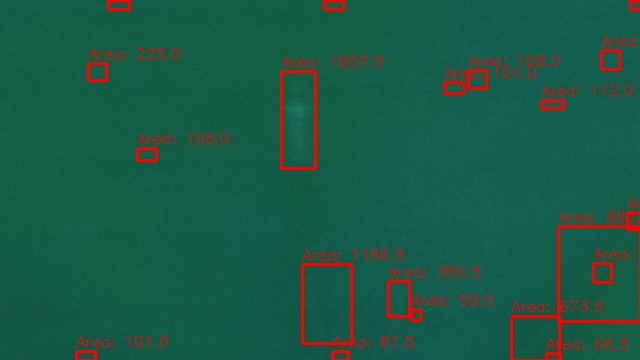
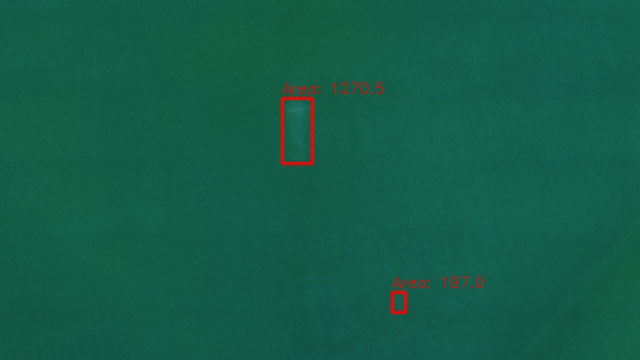
process update

diff --git a/src/preprocess.py b/src/preprocess.py
@@ -1,58 +1,92 @@
 import cv2
-import os
-from config import PROCESSED_DIR
-from io_utils import save_image
 import numpy as np
+import os
 
-def _gamma_correction(img, gamma):
-    invGamma = 1.0 / gamma
-    table = np.array([((i / 255.0) ** invGamma) * 255
-                      for i in np.arange(256)]).astype("uint8")
-    return cv2.LUT(img, table)
+# Thư mục lưu ảnh đã xử lý
+PROCESSED_DIR = "data/processed"
+os.makedirs(PROCESSED_DIR, exist_ok=True)
 
-def preprocess_image(image, filename):
+def preprocess_image_clean(image_input, filename=None,
+                           denoise_strength=25,
+                           median_ksize=7,
+                           gaussian_ksize=7,
+                           nlm_h=15,
+                           min_area=50,
+                           threshold_method="adaptive"):
     """
-    Tiền xử lý ảnh:
-    - Grayscale
-    - CLAHE cực mạnh
-    - Contrast stretching cực đại
-    - Khử nhiễu cực mạnh: bilateral + median + gaussian
-    - Gamma correction để nền tối, defect sáng
-    - Morphological top-hat nhấn defect
+    Tiền xử lý ảnh nâng cao:
+    - Chuyển sang grayscale nếu ảnh màu
+    - Tăng tương phản với CLAHE
+    - Lọc nhiễu mạnh (median + bilateral + Gaussian + Non-local Means)
+    - Threshold sang trắng/đen (binary) với C=0
+    - Morphology loại bỏ các chấm sáng nhỏ
+    - Giữ lại các vùng sáng lớn (>= min_area)
+    - Lưu ảnh đã xử lý vào PROCESSED_DIR
     """
 
-    # 1) Grayscale
-    gray = cv2.cvtColor(image, cv2.COLOR_BGR2GRAY)
+    # 1. Đọc ảnh
+    if isinstance(image_input, str):
+        img = cv2.imread(image_input, cv2.IMREAD_GRAYSCALE)
+    else:
+        if len(image_input.shape) == 3:
+            img = cv2.cvtColor(image_input, cv2.COLOR_BGR2GRAY)
+        else:
+            img = image_input.copy()
 
-    # 2) CLAHE cực mạnh
-    clahe = cv2.createCLAHE(clipLimit=10.0, tileGridSize=(8, 8))
-    enhanced = clahe.apply(gray)
+    if img is None:
+        raise ValueError("Không đọc được ảnh!")
 
-    # 3) Contrast stretching theo percentiles 0.5% - 99.5%
-    p_low, p_high = 0.5, 99.5
-    v_min, v_max = np.percentile(enhanced, (p_low, p_high))
-    stretched = np.clip((enhanced.astype(np.float32) - v_min) * 255.0 / (v_max - v_min), 0, 255).astype(np.uint8)
+    # 2. CLAHE để tăng tương phản
+    clahe = cv2.createCLAHE(clipLimit=5, tileGridSize=(8, 8))
+    contrast = clahe.apply(img)
 
-    # 4) Khử nhiễu cực mạnh
-    denoise = cv2.bilateralFilter(stretched, d=11, sigmaColor=450, sigmaSpace=450)
-    denoise = cv2.medianBlur(denoise, 15)  # loại bỏ mọi nhiễu hạt nhỏ
-    denoise = cv2.GaussianBlur(denoise, (3, 3), 0)  # mượt nền, giữ defect
+    # 3. Lọc nhiễu mạnh
+    denoised = cv2.medianBlur(contrast, median_ksize)
+    denoised = cv2.bilateralFilter(denoised, d=11,
+                                   sigmaColor=denoise_strength,
+                                   sigmaSpace=denoise_strength)
+    denoised = cv2.GaussianBlur(denoised, (gaussian_ksize, gaussian_ksize), 0)
+    denoised = cv2.fastNlMeansDenoising(denoised, h=nlm_h)
 
-    # 5) Gamma correction
-    gamma = 2.0
-    gamma_corrected = _gamma_correction(denoise, gamma)
+    # 4. Threshold sang trắng/đen
+    if threshold_method == "otsu":
+        _, binary = cv2.threshold(denoised, 0, 255,
+                                  cv2.THRESH_BINARY + cv2.THRESH_OTSU)
+    else:
+        binary = cv2.adaptiveThreshold(
+            denoised, 255,
+            cv2.ADAPTIVE_THRESH_GAUSSIAN_C,
+            cv2.THRESH_BINARY,
+            blockSize=31,
+            C=-1  # theo yêu cầu
+        )
 
-    # 6) Morphological top-hat
-    kernel_size = 15
-    kernel = cv2.getStructuringElement(cv2.MORPH_ELLIPSE, (kernel_size, kernel_size))
-    tophat = cv2.morphologyEx(gamma_corrected, cv2.MORPH_TOPHAT, kernel)
+    # 5. Morphology loại bỏ chấm sáng nhỏ
+    kernel = np.ones((3,3), np.uint8)
+    binary_clean = cv2.morphologyEx(binary, cv2.MORPH_OPEN, kernel)
 
-    # 7) Kết hợp gamma + top-hat
-    combined = cv2.addWeighted(gamma_corrected, 1.0, tophat, 2.5, 0)
-    final = np.clip(combined, 0, 255).astype(np.uint8)
+    # 6. Giữ lại các vùng sáng lớn
+    num_labels, labels, stats, centroids = cv2.connectedComponentsWithStats(binary_clean, connectivity=8)
+    binary_large = np.zeros_like(binary_clean)
+    for i in range(1, num_labels):
+        if stats[i, cv2.CC_STAT_AREA] >= min_area:
+            binary_large[labels == i] = 255
 
-    # 8) Lưu ảnh
-    processed_path = os.path.join(PROCESSED_DIR, filename)
-    save_image(processed_path, final)
+    # 7. Lưu ảnh đã xử lý
+    if filename is not None:
+        save_path = os.path.join(PROCESSED_DIR, filename)
+        cv2.imwrite(save_path, binary_large)
 
-    return final, processed_path
+    return binary_large, contrast
+
+# --- Giữ tên cũ để main.py không thay đổi ---
+preprocess_image = preprocess_image_clean
+
+# Ví dụ chạy thử
+if __name__ == "__main__":
+    img_path = "data/example.jpg"  # thay bằng ảnh của bạn
+    processed, contrast = preprocess_image(img_path, filename="example_processed.jpg")
+    cv2.imshow("Processed", processed)
+    cv2.imshow("Contrast", contrast)
+    cv2.waitKey(0)
+    cv2.destroyAllWindows()
